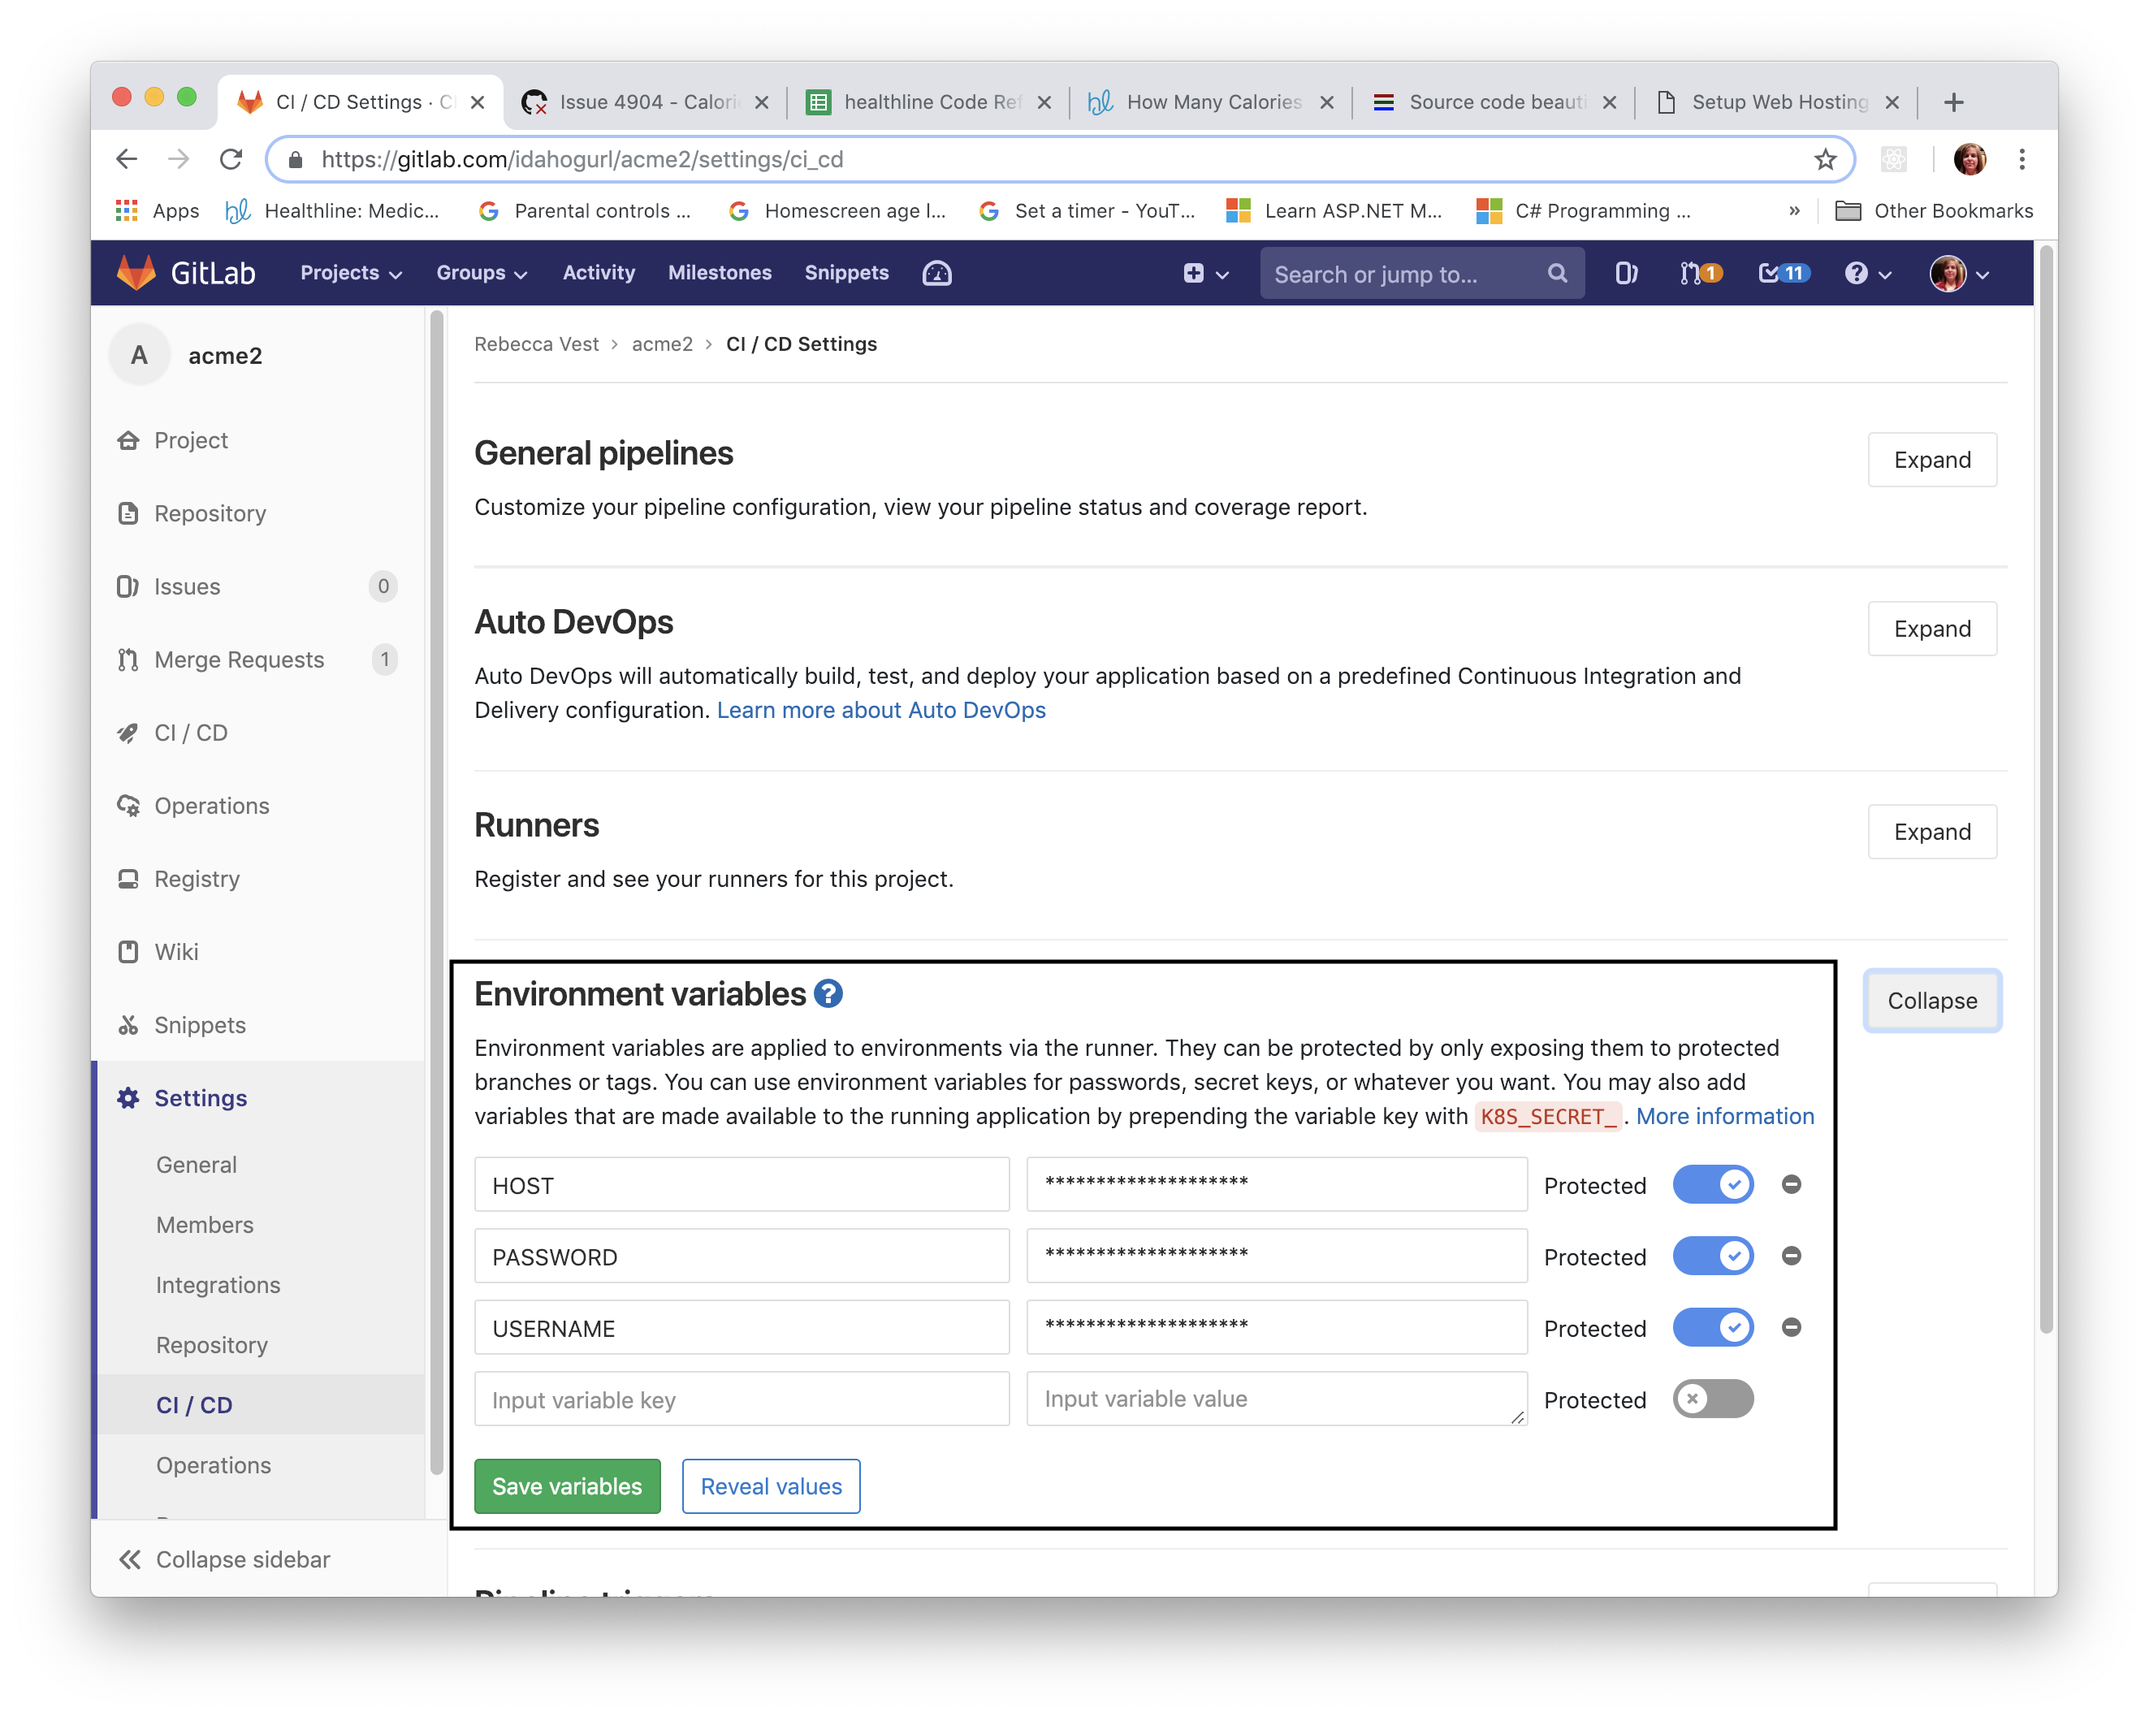
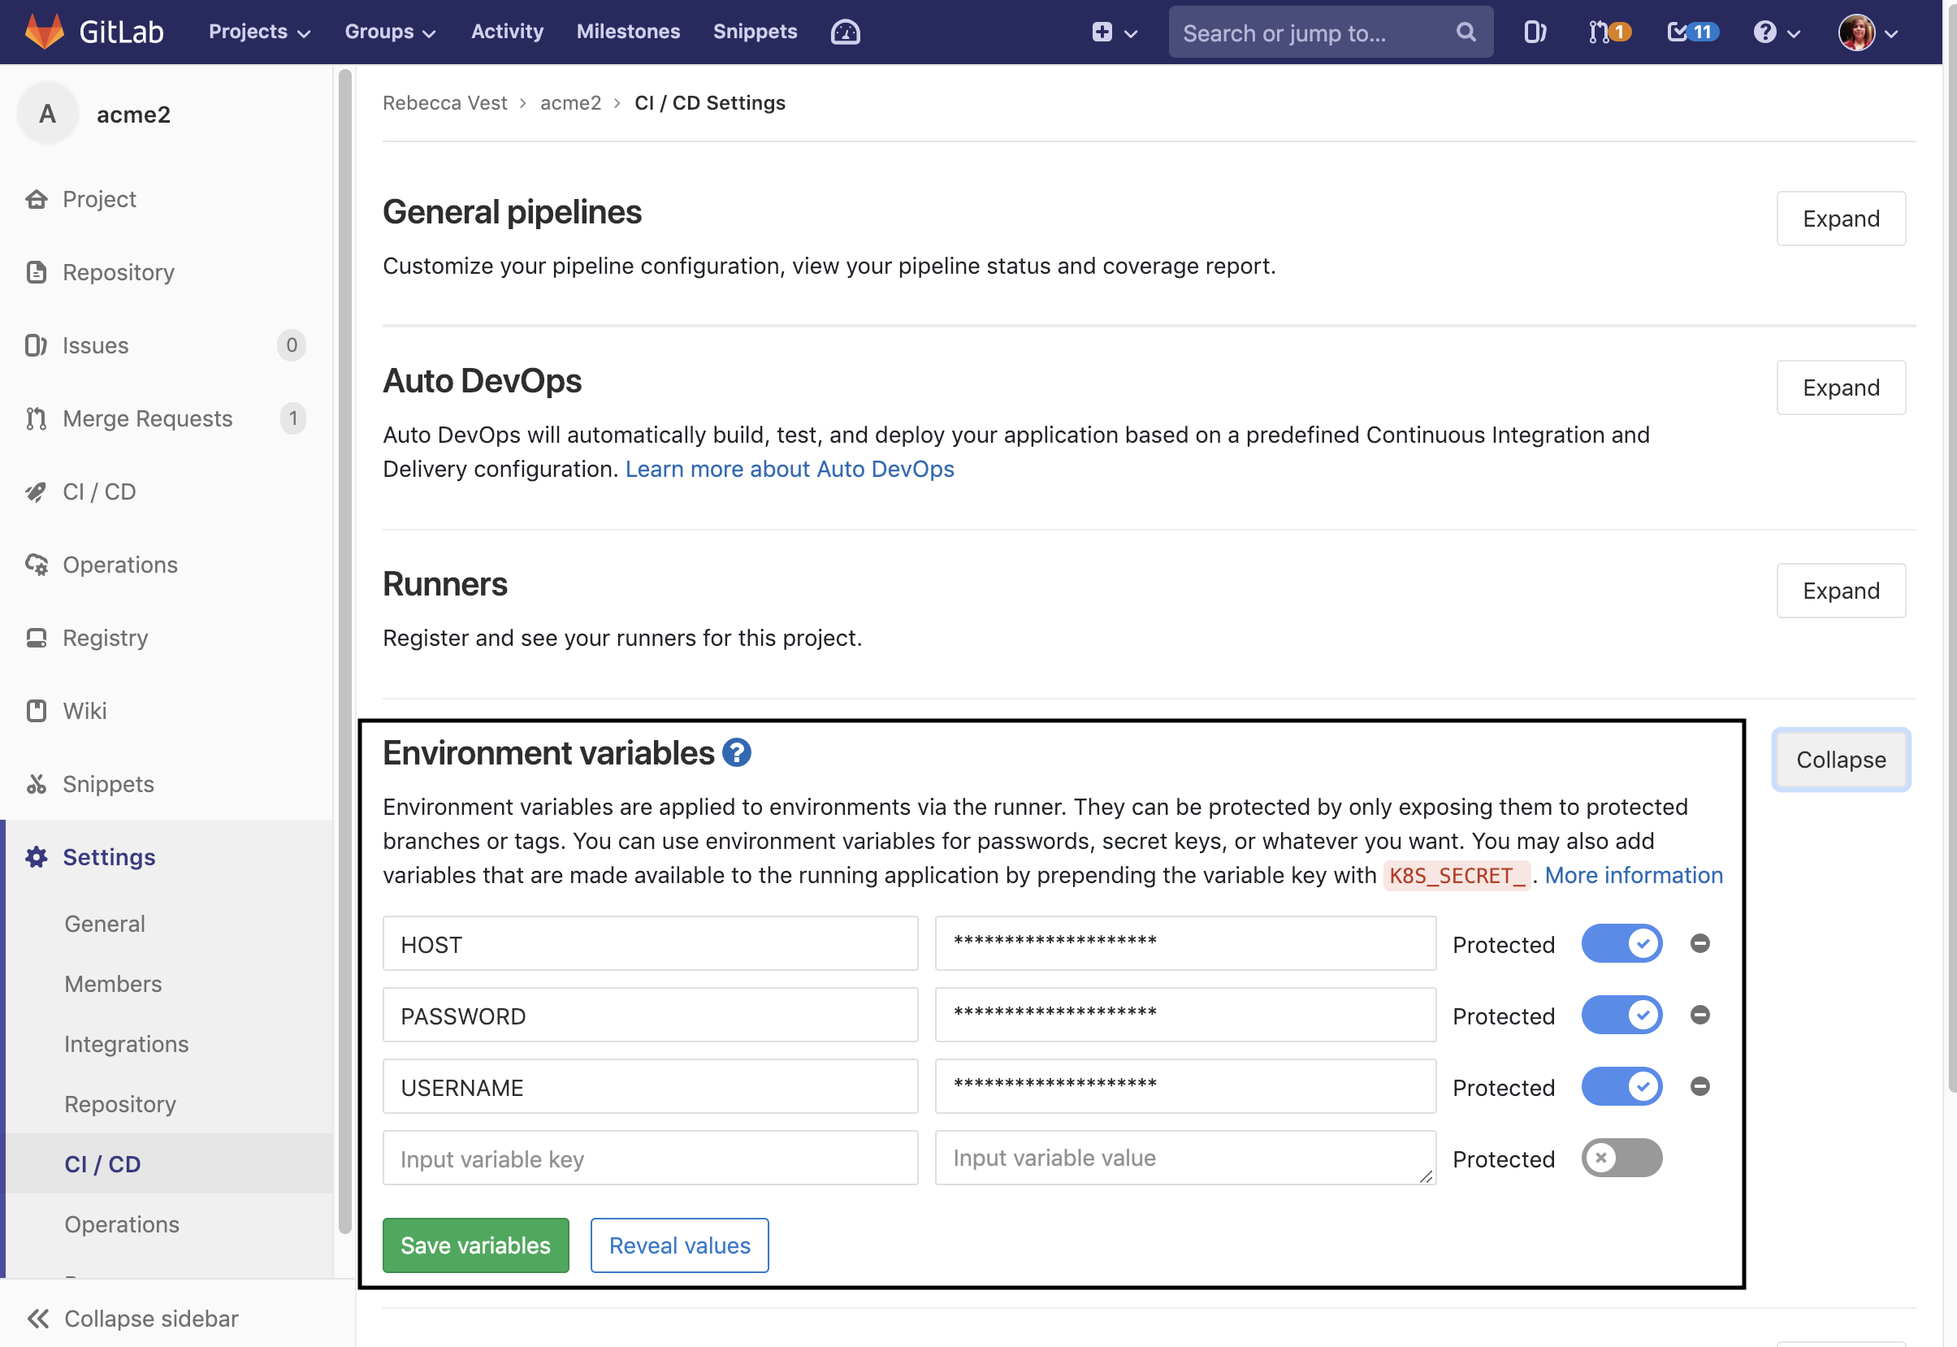
Captions added

Changed region(s): [[0.0, 0.0, 1.0, 0.9843], [0.8717, 0.4614, 0.9029, 0.4922]]

diff --git a/continious-deployment.html b/continious-deployment.html
@@ -36,7 +36,12 @@
         </p>
 
         <h2>Create FTP Account</h2>
-        <img src="ftp-account.png" style="width:50%" alt="" />
+        <figure>
+          <figcaption>
+            <small><em>FTP Account Creation</em></small>
+          </figcaption>
+          <img src="ftp-account.png" alt="" />
+        </figure>
         <ul>
           <li>Log in to siteground.com</li>
           <li>Click the red "Go to cPanel" button</li>
@@ -87,11 +92,7 @@
         ><br /><br />
         <small style="margin: 10px"><em>GitLab Environment Variables</em></small
         ><br />
-        <img
-          src="env-variables.png"
-          alt=""
-          style="width:75%; margin-top: 10px"
-        />
+        <img src="env-variables.png" alt="" />
         <h4>Creation Steps</h4>
         <ul>
           <li>Within GitLab, click Settings > CI/CD in the left sidebar.</li>
@@ -114,48 +115,56 @@
         <h3>Deployment Script</h3>
         Now you need to create the script file
         <strong>.gitlab-ci.yaml</strong> in your master branch.
-
-        <ul>
-          <li>Go to GitLab and open your "acme" project.</li>
-          <li>
-            Once loaded click "+ CI/CD configuration" button above your file
-            listing. <br />
-            <img src="cd-script.png" alt="" style="width:50%; margin: 10px;" />
-          </li>
-          <li>Copy and paste the script content below.</li>
-          <li>Click the green "Commit Changes" button at the bottom.</li>
-        </ul>
-
-        <code style="width:75%; display:block">
+        <figure style="margin: 10px 0">
+          <figcaption>
+            <small><em>Script Creation</em></small>
+          </figcaption>
+          <img src="cd-script.png" alt="" />
+        </figure>
+        <p>
+          <small><em>.gitlab-ci.yaml</em></small>
+        </p>
+        <code>
           <!-- HTML generated using hilite.me -->
           <div
             style="background: #f8f8f8; overflow:auto;width:auto;border:solid gray;border-width:.1em .1em .1em .8em;padding:.2em .6em;"
           >
             <pre style="margin: 0; line-height: 125%">
-            deploy:
-              script:
-                - apt-get update -qq &amp;&amp; apt-get install -y -qq lftp
-                - lftp -c &quot;set ftp:ssl-allow no; open -u $USERNAME,$PASSWORD $HOST; mirror -Rnev ./ ./public_html/acme --ignore-time --parallel=10 --exclude-glob .git* --exclude .git/&quot;
-              only:
-                - master
-            </pre>
+                    deploy:
+                      script:
+                        - apt-get update -qq &amp;&amp; apt-get install -y -qq lftp
+                        - lftp -c &quot;set ftp:ssl-allow no; open -u $USERNAME,$PASSWORD $HOST; mirror -Rnev ./ ./public_html/acme --ignore-time --parallel=10 --exclude-glob .git* --exclude .git/&quot;
+                      only:
+                        - master
+                    </pre
+            >
           </div>
         </code>
+        <h4>Steps</h4>
+        <ul>
+          <li>Go to GitLab and open your "acme" project.</li>
+          <li>
+            Once loaded click "+ CI/CD configuration" button above your file
+            listing.
+          </li>
+          <li>Copy and paste the script content below.</li>
+          <li>Click the green "Commit Changes" button at the bottom.</li>
+        </ul>
+
         <h3>Test</h3>
+        <figure>
+          <figcaption>
+            <small><em>SiteGround My Account screen</em></small>
+          </figcaption>
+          <img src="web-site-address.png" alt="" />
+        </figure>
         <ul>
           <li>You need to ensure your deployment was successful.</li>
           <li>From the left sidebar, click "CI/CD."</li>
           <li>
             If successful, you should see the most recent job set as Passed.
           </li>
-          <li>
-            Log in to siteground.com to find out your web address.<br />
-            <img
-              src="web-site-address.png"
-              alt=""
-              style="margin: 10px; width: 50%"
-            />
-          </li>
+          <li>Log in to siteground.com to find out your web address.<br /></li>
           <li>
             Enter the URL your browser's address bar with
             <strong>/acme/home.php</strong> at the end.

diff --git a/336course.css b/336course.css
@@ -180,8 +180,9 @@ footer {
 
 img,
 video {
-  max-width: 100%;
+  width: 75%;
   height: auto;
+  margin-top: 10px;
 }
 
 mark {
@@ -191,4 +192,10 @@ mark {
 code {
   background-color: #eeeeee;
   color: red;
+  width:75%; 
+  display:block;
+}
+
+figure {
+  margin: 10px 0;
 }
